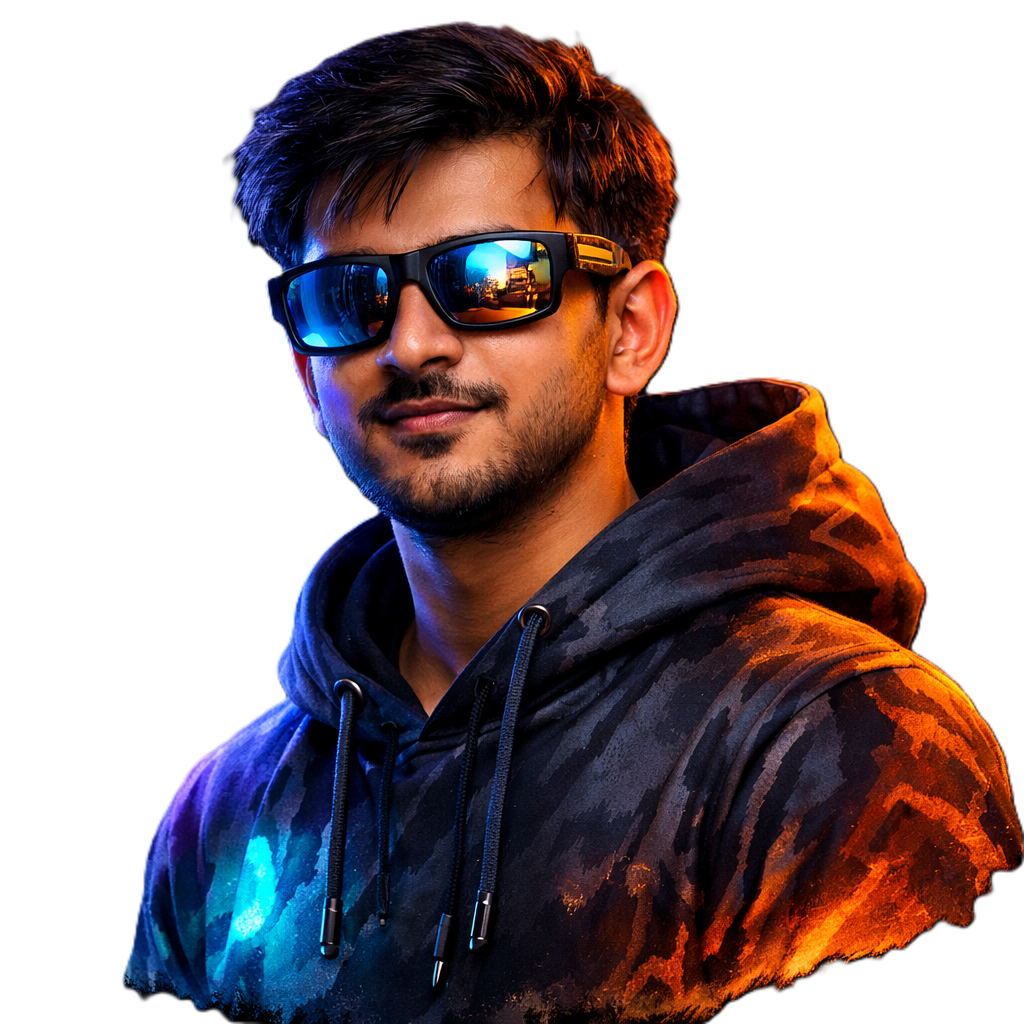
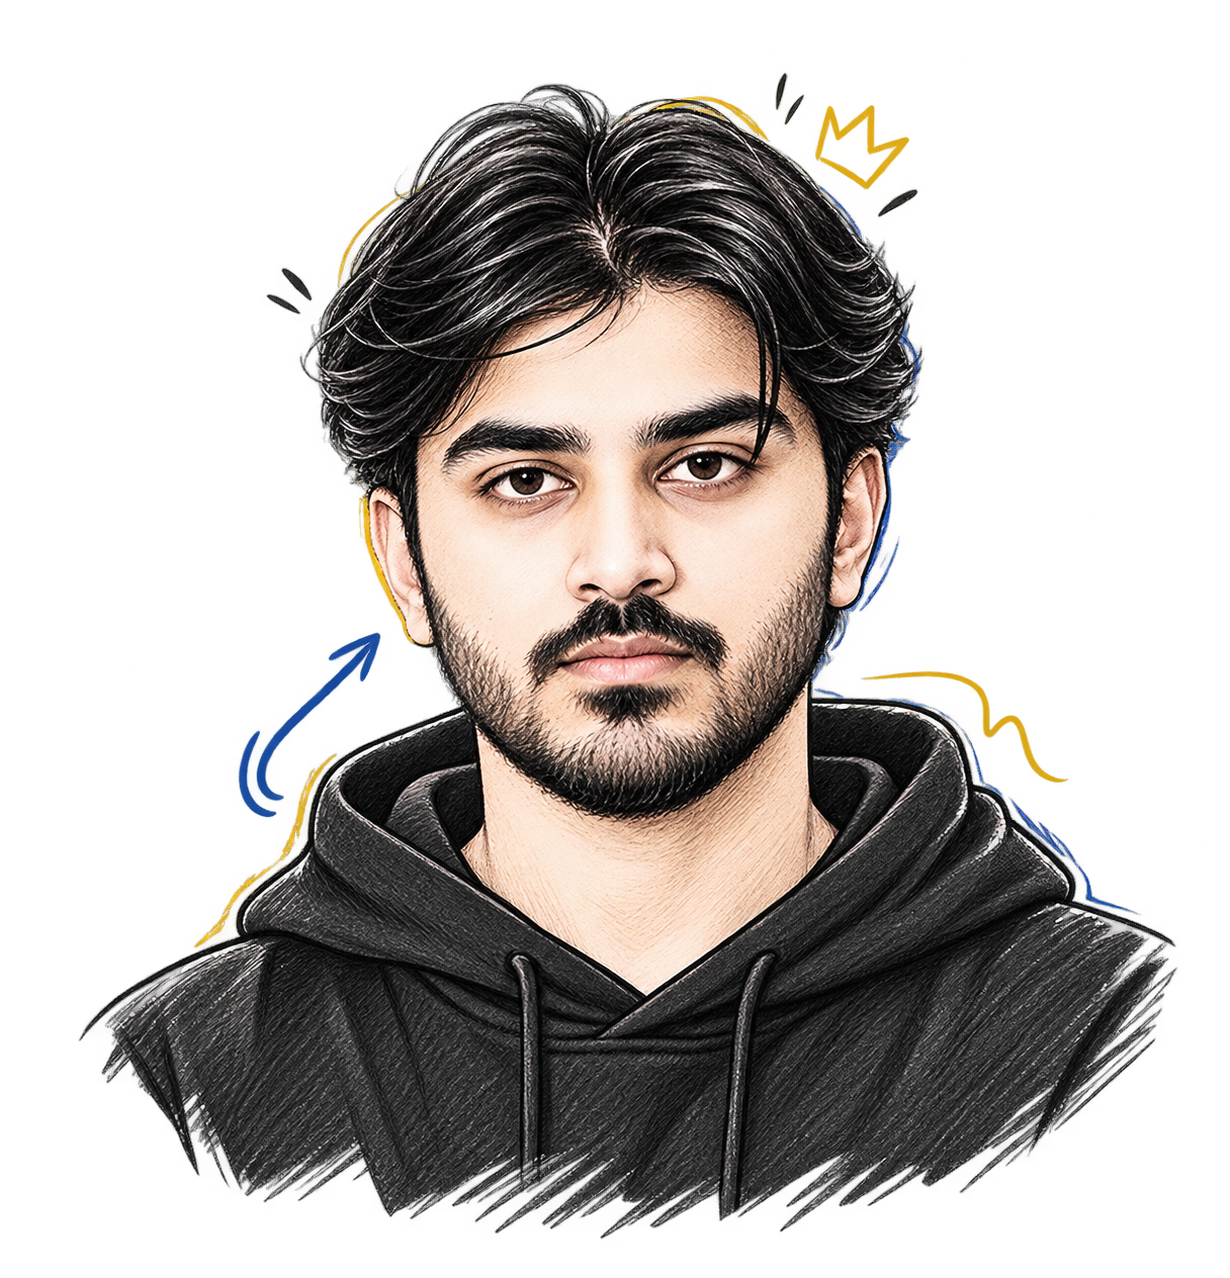
Swap hero portrait for sketch-style cutout
New avatar has transparent background; drop white photo-card frame and object-cover crop in favor of object-contain so the cutout floats free.

diff --git a/src/sections/Hero.tsx b/src/sections/Hero.tsx
@@ -121,17 +121,13 @@ export default function Hero() {
           {/* Taped-up photo */}
           <div className="order-1 flex justify-center md:order-2">
             <div ref={avatarRef} className="relative">
-              <div
-                className="tape relative -rotate-3 border-[3px] border-ink bg-white p-3 pb-12 shadow-sketchLg transition-transform duration-100 hover:rotate-1"
-                style={{ borderRadius: '10px 6px 12px 8px' }}
-              >
+              <div className="tape relative -rotate-3 transition-transform duration-100 hover:rotate-1">
                 <img
                   src="/avatar.png"
                   alt="Syed Muhammad Hassaan"
-                  className="h-64 w-64 object-cover sm:h-72 sm:w-72"
-                  style={{ borderRadius: '6px 10px 6px 10px' }}
+                  className="h-72 w-72 object-contain sm:h-80 sm:w-80"
                 />
-                <span className="absolute bottom-3 left-1/2 -translate-x-1/2 font-kalam text-lg text-ink-soft">
+                <span className="absolute -bottom-1 left-1/2 -translate-x-1/2 font-kalam text-lg text-ink-soft">
                   that&apos;s me
                 </span>
               </div>
